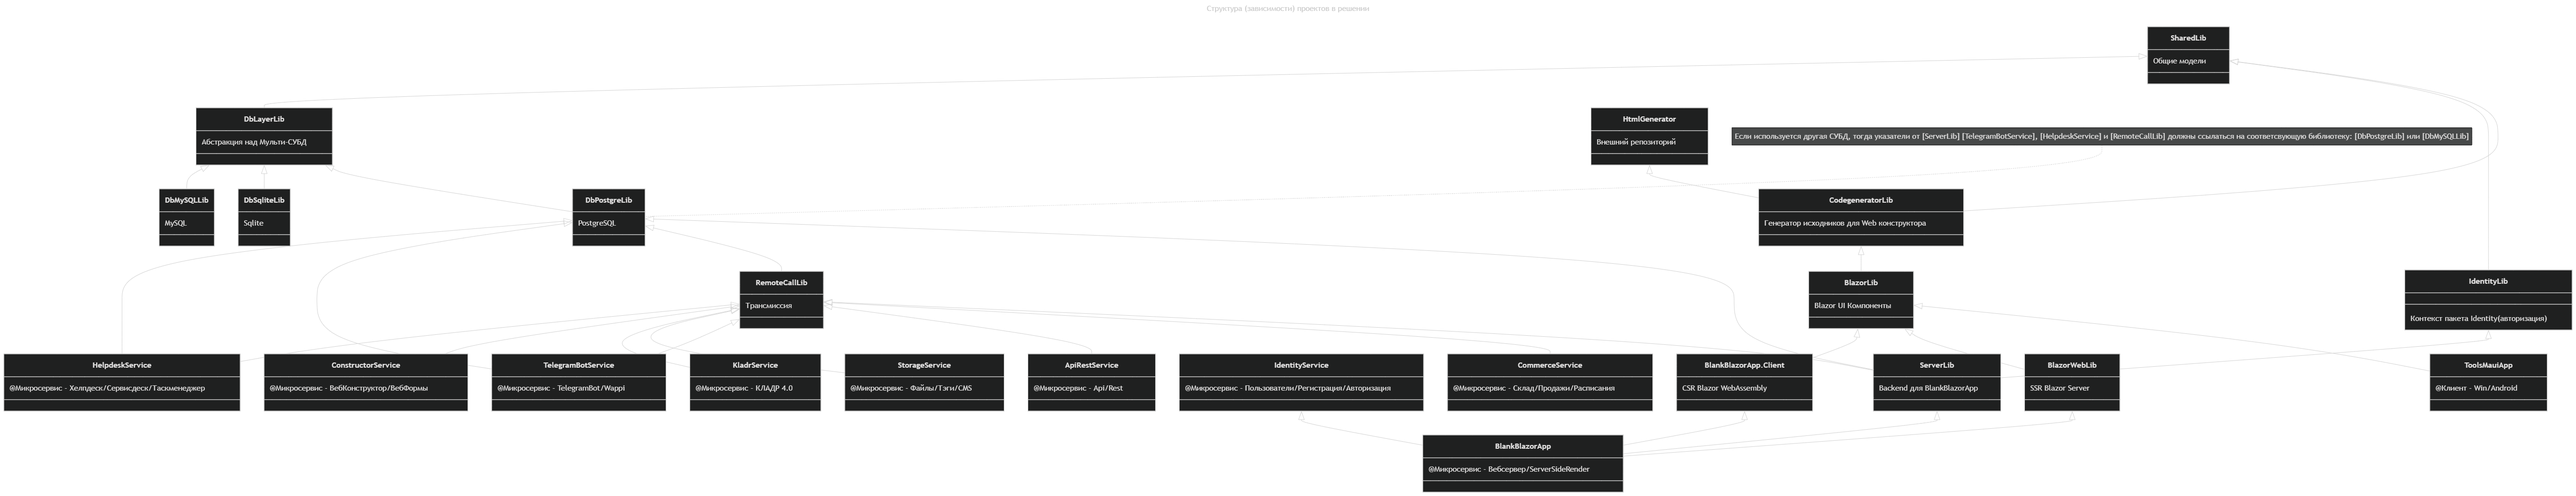
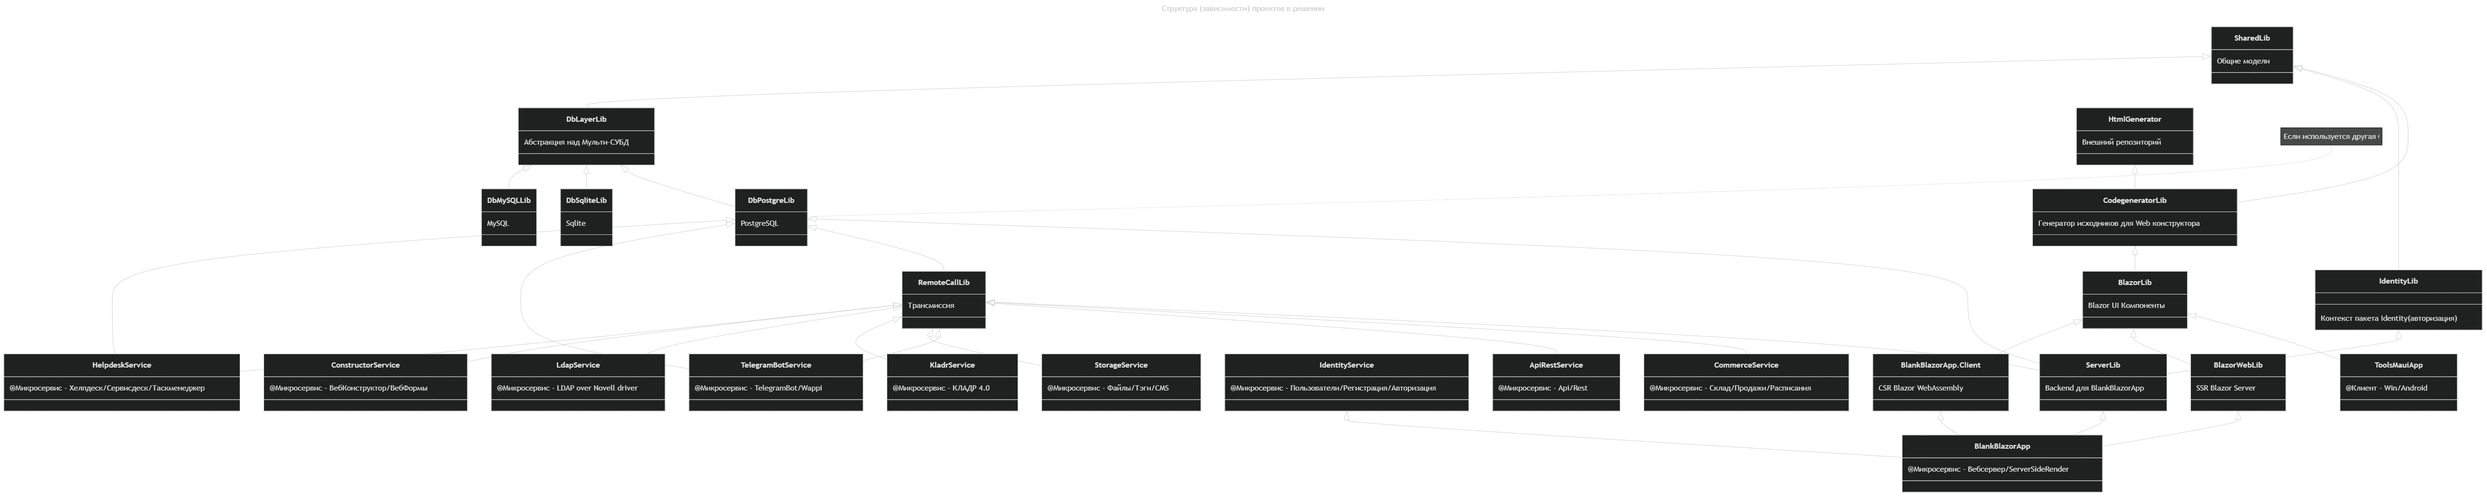
~

diff --git a/BlazorLib/Components/Kladr/control/input/KladrSelectDialogComponent.razor.cs b/BlazorLib/Components/Kladr/control/input/KladrSelectDialogComponent.razor.cs
@@ -89,33 +89,25 @@ public partial class KladrSelectDialogComponent : BlazorBusyComponentBaseModel
         if (CurrentRegion is null || string.IsNullOrWhiteSpace(FindName))
             return new TableData<KladrResponseModel>() { TotalItems = 0, Items = [] };
 
-        string[] _codeLikeFilter = [$"{CurrentRegion.Code[..2]}%00"];
-        RootKLADRModelDB? sObj = SelectedObject;
-        if (sObj is not null)
+        string[] _codeLikeFilter;
+        RootKLADRModelDB? so = SelectedObject;
+        if (so is not null)
         {
-            CodeKladrModel mdCode = CodeKladrModel.Build(sObj.CODE);
-            switch (mdCode.Level)
+            CodeKladrModel mdCode = CodeKladrModel.Build(so.CODE);
+            if (string.IsNullOrWhiteSpace(mdCode.ChildsCodesTemplate))
             {
-                case KladrTypesObjectsEnum.RootRegion:
-
-                    break;
-                case KladrTypesObjectsEnum.Area:
-
-                    break;
-                case KladrTypesObjectsEnum.City:
-
-                    break;
-                case KladrTypesObjectsEnum.PopPoint:
-
-                    break;
-                case KladrTypesObjectsEnum.Street:
-
-                    break;
-                case KladrTypesObjectsEnum.Home:
-
-                    break;
+                MudDialog.Close(DialogResult.Ok(true));
+                return new TableData<KladrResponseModel>()
+                {
+                    TotalItems = 0,
+                    Items = []
+                };
             }
+            else
+                _codeLikeFilter = [mdCode.ChildsCodesTemplate];
         }
+        else
+            _codeLikeFilter = [$"{CurrentRegion.Code[..2]}%00"];
 
         KladrFindRequestModel req = new()
         {

diff --git a/SharedLib/Models/kladr/CodeKladrModel.cs b/SharedLib/Models/kladr/CodeKladrModel.cs
@@ -47,6 +47,16 @@ public partial class CodeKladrModel
     /// <inheritdoc/>
     public required SignOfRelevanciesEnum? SignOfRelevance { get; set; }
 
+    /// <inheritdoc/>
+    public string? ChildsCodesTemplate => Level switch 
+    {
+         KladrTypesObjectsEnum.RootRegion => $"{RegionCode}%00",
+         KladrTypesObjectsEnum.Area => $"{RegionCode}{AreaCode}%00",
+         KladrTypesObjectsEnum.City => $"{RegionCode}___{CityCode}%00",
+         KladrTypesObjectsEnum.PopPoint => $"{RegionCode}______{PopPointCode}%00",
+         KladrTypesObjectsEnum.Street => $"{RegionCode}_________{StreetCode}%",
+         _ => default
+    };
 
     /// <inheritdoc/>
     public static CodeKladrModel Build(string code)
@@ -60,7 +70,7 @@ public partial class CodeKladrModel
 
         string? signOfRelevanceCode = code.Length > 17
             ? null
-            : code.Substring(code.Length - 2);
+            : code[^2..];
 
         SignOfRelevanciesEnum? signOfRel = null;
         if (!string.IsNullOrWhiteSpace(signOfRelevanceCode))

diff --git a/README.md b/README.md
@@ -96,6 +96,9 @@ note for DbPostgreLib "Если используется другая СУБД, 
     class KladrService{
         @Микросервис - КЛАДР 4.0
     }
+    class LdapService{
+        @Микросервис - LDAP over Novell driver
+    }
     class ConstructorService{
         @Микросервис - ВебКонструктор/ВебФормы
     }
